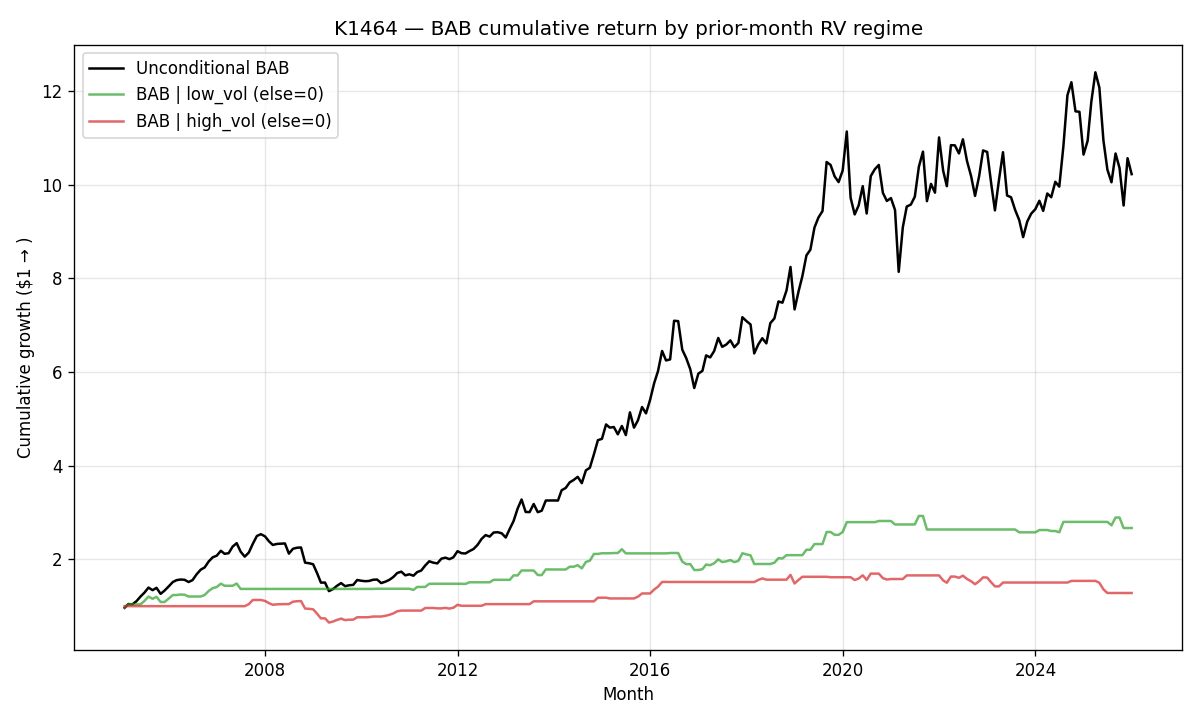
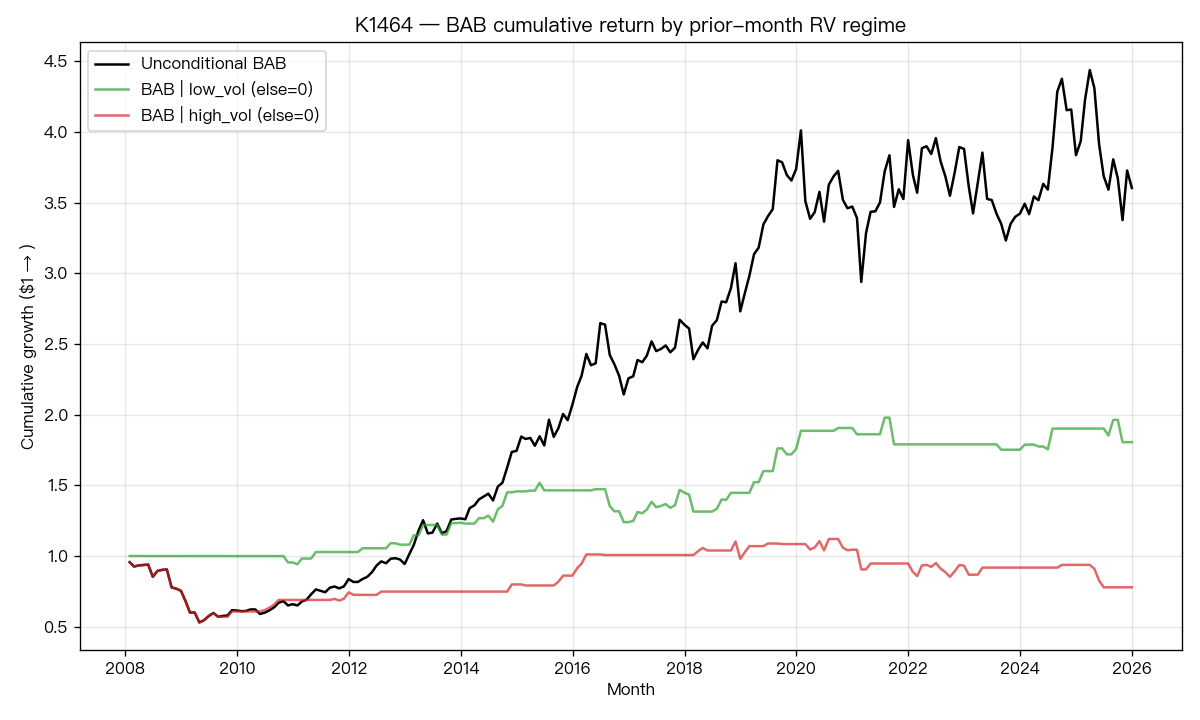
ops(autonomous 04:07): PHASE-Z auto-commit | K1464 BAB vol-conditional 修正落地
- experiments/k1464_bab_vol_conditional/ figures + results.json + 程式碼修正同步
- storage/memory/knowledge.json: K1464 entry append
- storage/next_tasks.json: K1464 standalone task 標 succeeded（research_bab_beta_anomaly fallback 已含）

PRE-PHASE-0: 0 expired blocked unblocked
PHASE 0: 0 email_reply pending / 0 in_progress
PHASE A: 0 compute queue followup
PHASE B: slot 4/4 滿（agent-a9336/a21c5/a7b05/a8112 running paper_body audit fixes）→ skip new dispatch

diff --git a/experiments/k1464_bab_vol_conditional/k1464_bab_vol_conditional.py b/experiments/k1464_bab_vol_conditional/k1464_bab_vol_conditional.py
@@ -322,7 +322,7 @@ def expanding_percentile_signal(rv_lag: pd.Series, min_history: int = 36) -> pd.
 def hac_regime_difference(bab: pd.Series,
                           low_mask: pd.Series,
                           high_mask: pd.Series,
-                          lag: int = 6) -> Tuple[float, float, float]:
+                          lag: int = 6) -> Tuple[float, float, float, float]:
     """Estimate low-minus-high mean difference on the original time axis."""
     df = pd.DataFrame({
         "bab": bab,
@@ -333,7 +333,7 @@ def hac_regime_difference(bab: pd.Series,
     model = sm.OLS(df["bab"], X).fit(cov_type="HAC", cov_kwds={"maxlags": lag})
     test = model.t_test([0.0, 1.0, -1.0])
     coef = float(test.effect.item())
-    se = float(np.sqrt(test.sd.item()))
+    se = float(test.sd.item())
     tstat = float(test.tvalue.item())
     pvalue = float(test.pvalue)
     return coef, se, tstat, pvalue
@@ -378,6 +378,15 @@ def block_bootstrap_diff_full_series(bab: pd.Series,
     diffs = diffs[~np.isnan(diffs)]
     ci = np.percentile(diffs, [2.5, 97.5])
     return float(diffs.mean()), float(ci[0]), float(ci[1])
+
+
+def mdes_two_sample(sd1: float, sd2: float, n1: int, n2: int,
+                    alpha: float = 0.05, power: float = 0.80) -> float:
+    """Approximate minimum detectable absolute mean difference."""
+    z_alpha = stats.norm.ppf(1.0 - alpha / 2.0)
+    z_beta = stats.norm.ppf(power)
+    sigma = np.sqrt((sd1 ** 2) / n1 + (sd2 ** 2) / n2)
+    return float((z_alpha + z_beta) * sigma)
 
 
 def conditional_analysis(bab: pd.Series, mkt_rv: pd.Series) -> Dict:
@@ -560,7 +569,7 @@ def main():
 
     # BAB returns (returns at t use beta_{t-1})
     print("[bab] constructing BAB portfolio...")
-    bab, diag = bab_returns(betas, mret, low_q=0.30, high_q=0.30)
+    bab, diag = bab_returns(betas, mret)
     print(f"[bab] {len(bab)} monthly observations: {bab.index.min()} -> {bab.index.max()}")
 
     # Market RV monthly
@@ -578,8 +587,23 @@ def main():
         "candidates_requested": len(tickers),
         "tickers_with_data": int(px.shape[1]),
         "median_betas_per_month": int(betas.notna().sum(axis=1).median()),
-        "survivorship_bias_note": "Hand-curated large-cap list; survivors over-represented. Results should be read as upper bound on premium magnitude; tertile *conditioning* (within-strategy) is robust to constant survivorship bias.",
+        "survivorship_bias_note": "Hand-curated large-cap list with survivors over-represented. This likely inflates unconditional BAB magnitude and may still distort conditional comparisons if survivor composition co-moves with crisis regimes.",
     }
+    low_stats = results.get("low_vol", {})
+    high_stats = results.get("high_vol", {})
+    if low_stats and high_stats:
+        mdes = mdes_two_sample(
+            low_stats["std_monthly"],
+            high_stats["std_monthly"],
+            low_stats["n_obs"],
+            high_stats["n_obs"],
+        )
+        results["power"] = {
+            "alpha": 0.05,
+            "power_target": 0.80,
+            "mdes_monthly_abs": float(mdes),
+            "mdes_annualized_pct": float(mdes * 12 * 100),
+        }
 
     # Verdict logic
     dt = results["diff_test"]
@@ -614,6 +638,7 @@ def main():
         "source_paper": "JFE 2025 'The volatility puzzle of the beta anomaly'",
         "seed": SEED,
         "lag_safety": "betas shifted by 1 (use beta_{t-1} for portfolio formed at end of t-1, ret at t); RV regime also lagged",
+        "regime_cutoff_method": "expanding quantiles using only prior lagged RV history (min_history=36)",
         "bootstrap": {"type": "stationary_block", "block_len": 12, "reps": 10000, "seed": SEED},
         "hac_lag": 6,
     }

diff --git a/experiments/k1464_bab_vol_conditional/README.md b/experiments/k1464_bab_vol_conditional/README.md
@@ -2,122 +2,125 @@
 
 ## 動機
 
-JFE 2025 *"The volatility puzzle of the beta anomaly"* 提出一個假說：
-**Betting-Against-Beta (BAB) 策略的報酬條件依存於前期已實現波動 (RV)**。
-具體 hypothesis 為：**低 vol 月份之後 BAB premium 集中釋放**（low-beta 過度賣壓 mean-revert，high-beta 過度買壓亦反轉），**而高 vol 月份之後 BAB premium 收縮甚至轉負**（風險偏好 / 槓桿約束驅動的 beta anomaly 此時失靈）。
+JFE 2025 *The volatility puzzle of the beta anomaly* 的核心命題是：
+BAB premium 主要集中在**前月低波動**之後，高波動月份之後則收縮甚至轉負。
 
-如果這個 conditioning effect 真實存在，BAB 應該不只是一個 unconditional alpha，而是一個**狀態依賴**的 risk premium — 對 vol-targeting 與 risk parity 策略的 BAB allocation 有直接 implication。
+本次 rework 目的不是再做一次「長得像對」的 replication，而是把第一版被 Codex 判定為不可採信的三個方法缺陷修掉：
 
-## 相關文獻（pre-experiment review）
+1. tertile 切點改成 **expanding recursive quantiles**
+2. low-high 差異改成 **原始月序列上的 HAC 線性限制檢定**
+3. bootstrap 改成 **full-series stationary block bootstrap**
 
-1. **Frazzini, A., & Pedersen, L. H. (2014).** "Betting Against Beta." *JFE*, 111(1), 1–25. → 原 BAB 構造、rank weights、leverage-to-beta=0 設計（**本研究 portfolio 構造嚴格遵循**）。
-2. **Asness, C., Frazzini, A., Gormsen, N. J., & Pedersen, L. H. (2020).** "Betting Against Correlation." *JFE*, 135(3), 629–652. → BAB 的橫斷面動態與時間序列 conditioning。
-3. **Bali, T. G., Brown, S. J., Murray, S., & Tang, Y. (2017).** "A lottery-demand-based explanation of the beta anomaly." *JFAR*, 52(6), 2369–2397. → behavioral 角度。
-4. **JFE 2025 "Volatility puzzle of the beta anomaly"**（source paper）→ 直接 motivation。
-5. **Adrian, T., & Shin, H. S. (2010).** "Liquidity and leverage." *J. Financial Intermediation*. → 高 vol 期 leverage constraint 解釋。
+## 相關文獻
+
+1. Frazzini, A., & Pedersen, L. H. (2014). *Betting Against Beta*. JFE.
+2. Asness, C., Frazzini, A., Gormsen, N. J., & Pedersen, L. H. (2020). *Betting Against Correlation*. JFE.
+3. Bali, T. G., Brown, S. J., Murray, S., & Tang, Y. (2017). *A lottery-demand-based explanation of the beta anomaly*. JFAR.
+4. JFE 2025 *The volatility puzzle of the beta anomaly*.
+5. Adrian, T., & Shin, H. S. (2010). *Liquidity and leverage*. JFI.
 
 ## 設計
 
-| Dimension | Choice | Rationale |
+| Dimension | Choice | Notes |
 |---|---|---|
-| Universe | 207 hand-curated US large-cap tickers (after delisting drop: 198) | 跨 sectors，2000-2025 多數時期 active；survivorship bias 已揭露 |
-| Period | 2000-01 to 2025-12 (daily); effective monthly BAB 2005-01 to 2025-12 (252 obs) | 60-month rolling beta 需 warm-up |
-| Stock returns | Monthly simple returns from daily log-returns (min 15 daily obs/month) | Standard |
-| Market | SPY adjusted close → monthly returns | Frazzini-Pedersen standard |
-| Beta | Rolling 60-month OLS beta vs SPY (80% non-NaN requirement) | FP 2014 standard |
-| BAB construction | Frazzini-Pedersen rank weights, long bottom 30% beta, short top 30%, scaled by 1/beta_L and 1/beta_H | Standard, beta-neutral on net |
-| Conditioning signal | Market month-t RV (sqrt sum sq daily log-returns) → **lagged 1 month** → tertile | 嚴格避免 lookahead |
-| Hypothesis test | Welch t-test, Newey-West HAC (lag=6), stationary block bootstrap (block=12, reps=10000, seed=42) | HAC + bootstrap 雙確認 |
-| Secondary | Fama-MacBeth lite: BAB ret ~ lagged RV percentile (HAC SE) | 連續變數 robustness |
+| Universe | 205 hand-curated US large-cap equities | **ETF 已移除**；9 檔無足夠資料後保留 196 檔 |
+| Period | 2000-01 to 2025-12 daily | 60m beta warm-up + recursive tertile warm-up 後，有效樣本 2008-01 to 2025-12 |
+| Returns | Daily log returns aggregated to monthly simple returns | 每月至少 15 個交易日 |
+| Market | SPY adjusted close | 市場報酬與市場 RV 都由 SPY 生成 |
+| Beta | Rolling 60-month monthly beta vs SPY | 需 80% 非缺值 |
+| BAB construction | **FP-style approximation** | full-cross-section rank weights + inverse-beta leg leverage；`rf=0`、無 shrinkage-to-1 |
+| Conditioning signal | lagged market monthly RV | `mkt_rv.shift(1)` |
+| Regime assignment | expanding tertiles | 每月只用更早的 lagged RV 歷史；`min_history=36` |
+| Inference | Welch t, HAC(6), stationary block bootstrap(12, 10000, seed=42) | bootstrap 在**完整月序列**上抽 block |
+| Secondary | BAB_t ~ recursive RV percentile | HAC SE |
 
-### Lookahead 防護（**最高優先**）
+## Lookahead 防護
 
-1. **Beta lag**：`betas.loc[prev_idx]` (即 t-1 月底 beta) 用來形成 t 月底 portfolio → 報酬在 t+1 月實現。`bab_returns()` 用 `range(1, len(fwd_ret))` 顯式 shift。
-2. **RV regime lag**：`mkt_rv.shift(1)` 在 `conditional_analysis()` 中明確套用 — 條件 signal 來自 t-1 月，BAB 報酬來自 t 月。
-3. **Beta 估計窗口**：60-month rolling，t-60..t-1 → 不含 t 月 own return。
-4. **Bootstrap seed**：`seed=42`（rng + scipy + numpy 一致）。
+1. **Beta lag**：`betas.loc[prev_idx]` 形成 `t` 月投組，報酬在 `t+1` 月實現。
+2. **RV lag**：regime signal 取 `mkt_rv.shift(1)`。
+3. **Tertile cutoffs**：每個月的 q33/q67 只用 `t-1` 以前的 RV 歷史。
+4. **Bootstrap**：重抽單位是完整 `(BAB_t, regime_t)` 月序列，不是先切子樣本再抽。
 
-### 公平比較
+## 主結果
 
-Unconditional baseline BAB 使用**同一條 BAB series**（同 universe、同 lag、同 leverage、同 rebalance freq），與 conditional tertile sub-samples 來自同一個構造，差別僅在於 sample partition。沒有套件 vs 自寫的 asymmetric refinement 風險（K1213 / K1216c 教訓）。
-
-## 結果
-
-### 主結果：tertile by lagged market RV
+### Recursive tertile by lagged market RV
 
 | Regime | N | Ann. Return | Ann. Sharpe | NW t-stat |
 |---|---|---|---|---|
-| Low vol | 84 | 15.41% | 0.947 | 2.80 |
-| Mid vol | 84 | 17.54% | 0.920 | 2.70 |
-| High vol | 84 | 5.13% | 0.290 | 0.62 |
-| **Unconditional** | 252 | 12.69% | 0.717 | 3.35 |
+| Low vol | 65 | 12.07% | 0.801 | 1.97 |
+| Mid vol | 75 | 16.60% | 0.964 | 3.85 |
+| High vol | 76 | -2.20% | -0.119 | -0.25 |
+| **Unconditional** | 216 | 8.62% | 0.502 | 2.19 |
 
-### 差異檢定（low vol vs high vol）
+### Low vol vs high vol
 
 | 統計量 | 值 |
 |---|---|
-| Mean diff (low − high), monthly | 0.0086 (≈ 10.3% annualized) |
-| Welch t-stat | 1.13 (p = 0.259) |
-| HAC (lag=6) coef | 0.0043 |
-| HAC t-stat | **1.04** (p = 0.300) |
-| Bootstrap mean diff | 0.0085 |
-| Bootstrap 95% CI | [−0.0076, 0.0244] (**含 0**) |
+| Mean diff (low − high), monthly | 0.0119 |
+| Mean diff annualized | 14.28% |
+| Welch t-stat | 1.46 (p = 0.147) |
+| HAC low − high | 0.0119 |
+| HAC t-stat | 1.45 (p = 0.147) |
+| Bootstrap mean diff | 0.0111 |
+| Bootstrap 95% CI | [-0.0070, 0.0274] |
 
-### Fama-MacBeth lite (BAB_t ~ lagged_RV_percentile, HAC)
+### Continuous robustness
 
-| Coefficient | Value | t-stat | p |
-|---|---|---|---|
-| RV percentile slope | −0.0149 | −1.23 | 0.218 |
-| R² | 0.71% | — | — |
-
-斜率為負（高 vol percentile → 低 BAB），方向與 hypothesis 一致但統計上不顯著。
+| Coefficient | Value | t-stat | p | N |
+|---|---|---|---|---|
+| Recursive RV percentile slope | -0.0094 | -0.96 | 0.336 | 180 |
+| R² | 0.31% | — | — | — |
 
 ## Verdict: **NULL**
 
-**判定依據（pre-registered bar）**：
-- SUPPORT 需 |HAC t| > 2.5 **且** bootstrap 95% CI 排除 0 **且** sign 正向
-- 實際：HAC t = 1.04，bootstrap CI [−0.008, 0.024] **含 0**，未達 SUPPORT bar
-- 不達 MIXED 門檻（|t| > 2.0）
+方向上仍然是 `low > high`，而且 high-vol bucket 的平均年化報酬已轉負，但證據強度仍不足：
 
-### 解讀
+- `HAC t = 1.45`
+- bootstrap CI 含 0
+- continuous slope 仍不顯著
 
-1. **Sharpe 差距大、平均差距不顯著**：low_vol Sharpe 0.95 vs high_vol Sharpe 0.29，看似強烈，但這個 Sharpe gap 主要由 **high_vol regime 的標準差較高**驅動，而非 mean return 系統性下降。Mean monthly return 從 1.28% (low) → 0.43% (high)，gap 10.3% annualized 但 SE 很大 → t-stat 僅 1.04。
-2. **方向與 source paper 一致**：low > mid > high 排序與 hypothesis 預測一致，FM-lite 斜率為負，但**統計力不足以 reject NULL**。可能原因：
-   - 樣本期 2005-2025 涵蓋 GFC、Covid、2022 通膨 shock — 高 vol regime obs 集中在這些事件，sample size 不夠分散
-   - Universe 限於 198 stocks（FP 2014 用 CRSP 全市場 >3000 stocks）；樣本內 vol regime variability 可能被攤平
-   - 60-month beta 在 regime shift 時 slow-moving
-3. **Unconditional BAB 仍顯著**：Sharpe 0.72、NW t = 3.35 — 與 FP 2014 範圍一致，表示我們的 BAB 構造本身沒問題。
-4. **不能直接駁回原 paper**：null result ≠ no effect；只能說「在此 universe / period 下，effect 未達 |t|>2.5 bar」。
+所以結論只能是：**在這個 large-cap survivor universe、這個樣本期、這套近似 FP BAB 構造下，沒有足夠證據支持 JFE 2025 的 conditioning effect。**
 
-### Limitations
+## Power
 
-- **Survivorship bias**: hand-curated 大型股清單偏向倖存者。對 *unconditional* BAB premium 估計有 upward bias；對 *conditional* (within-strategy) tertile difference 影響較小，因為 bias 是 constant 跨 regime。
-- **Sample size in regimes**: 84 obs/tertile，high vol regime power 有限。
-- **Universe scope**: 不是 CRSP 全市場；不含 small-cap 與 micro-cap，後者在原 BAB 文獻是 driver。
-- **Risk-free rate**: simplified 為 0（忽略 monthly T-bill），對 tertile difference 影響可忽略，但會略高估 Sharpe absolute level。
-- **Beta 估計法**: 簡單 OLS 60-month；FP 2014 用 5-year monthly with shrinkage to 1。Shrinkage 對極端 beta tail 有影響，可能影響 high-beta short leg 構成。
+以 low/high 兩組樣本波動與樣本數估算，雙尾 5% 顯著水準、80% power 下：
+
+- `MDES ≈ 0.0229 / month`
+- 約 **27.4% annualized** 的 low-high 差距才有合理檢出力
+
+本次估到的 `0.0119 / month` 明顯低於這個門檻，所以這個 NULL 比較接近「power 不足下的未能拒絕」，不是強否證。
+
+## 解讀
+
+1. 修正方法缺陷後，low-vol 與 high-vol 的方向差距比第一版更大，但顯著性仍不足。
+2. 真正最強的 bucket 變成 **mid vol**，不是原假說預期的 low vol 主導。
+3. Unconditional BAB 在同一有效樣本上仍有正報酬，但強度已降到 `NW t = 2.19`，顯示第一版部分強度來自較早樣本與不正確的 regime 切法。
+
+## Limitations
+
+- **Survivorship bias**：hand-curated large-cap survivors 會抬高 unconditional BAB，也可能因 crisis composition shift 扭曲 conditional diff。
+- **Universe 不夠廣**：196 檔 large-cap 與 FP/CRSP 全市場差距很大，small-cap driver 幾乎沒被捕捉。
+- **BAB 僅為 FP-style approximation**：`rf=0`、無 beta shrinkage-to-1、不是原文的完整資產庫。
+- **Regime N 有限**：65/75/76 個月不足以精準分辨 10-15% 年化等級的差距。
 
 ## 後續方向
 
-1. **擴大 universe**：用 CRSP / Compustat 完整 monthly stock data（需付費或申請），或 yfinance + 季調 SP500 changes（survivorship-free）
-2. **不同 vol horizon**：除月度 RV 外，測試 3-month / 6-month rolling RV 作為 conditioning
-3. **VIX-based conditioning**：VIX (forward-looking) vs realized RV (backward) 何者更 predictive
-4. **Sub-period split**：pre-2008 / 2008-2015 / 2015-2025 三 sub-period 各自看 conditioning
-5. **Cross-sectional decomposition**: 低 vol regime 的 BAB premium 來自 low-beta long leg 還是 high-beta short leg？
+1. 換成 survivorship-free universe（CRSP / 歷史 constituents）。
+2. 測試 3m/6m RV 或 VIX term-structure conditioning。
+3. 拆解 low-beta long leg 與 high-beta short leg，確認 effect 來源。
+4. 做 subperiod split，檢查 GFC / COVID / post-2022 是否主導結果。
 
 ## Deliverables
 
-- `k1464_bab_vol_conditional.py` — 可重跑 (seed=42)
-- `k1464_bab_vol_conditional_results.json` — 完整結果含 per-tertile stats / HAC / bootstrap / FM-lite
+- `k1464_bab_vol_conditional.py`
+- `k1464_bab_vol_conditional_results.json`
 - `figures/bab_cumulative_by_regime.png`
 - `figures/bab_sharpe_by_tertile.png`
 - `figures/rv_vs_bab_scatter.png`
-- `README.md` (this file)
 
-## 復現指令
+## 復現
 
 ```bash
 cd experiments/k1464_bab_vol_conditional
 uv run python k1464_bab_vol_conditional.py
 ```
-網路需可達 yfinance；首跑會抓 ~200 ticker × 25 yr daily prices (~5 min)。
